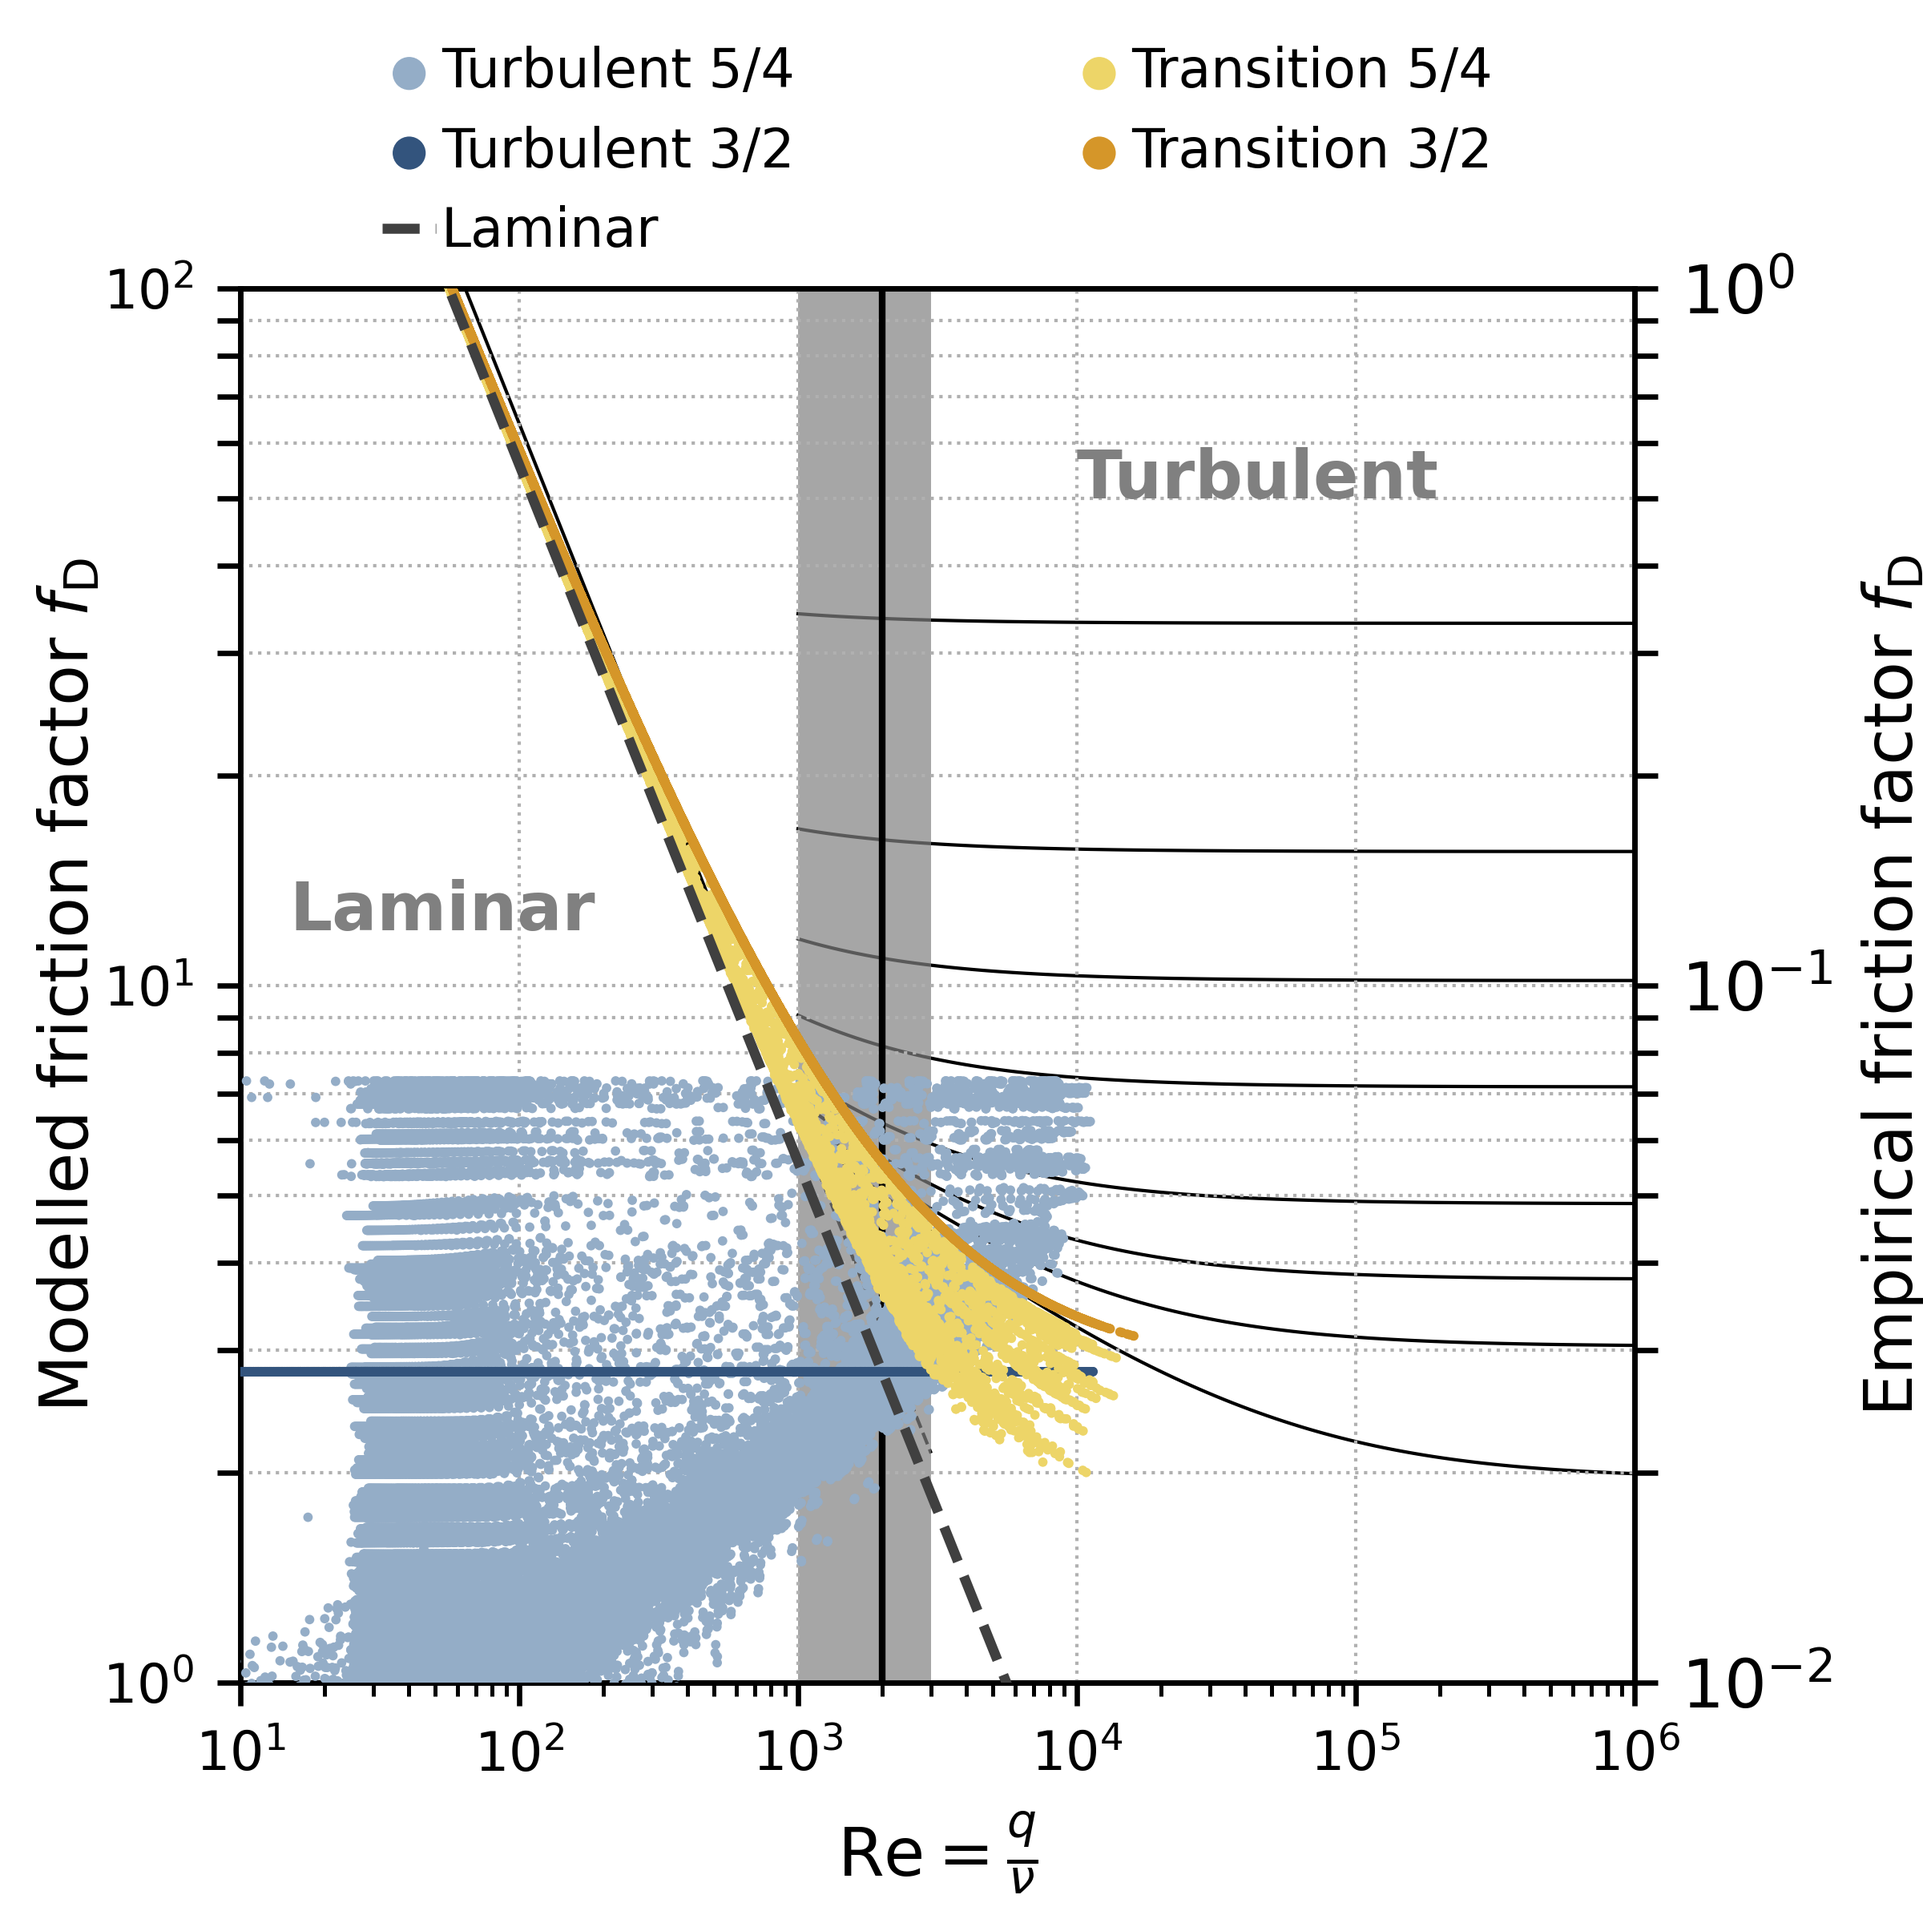
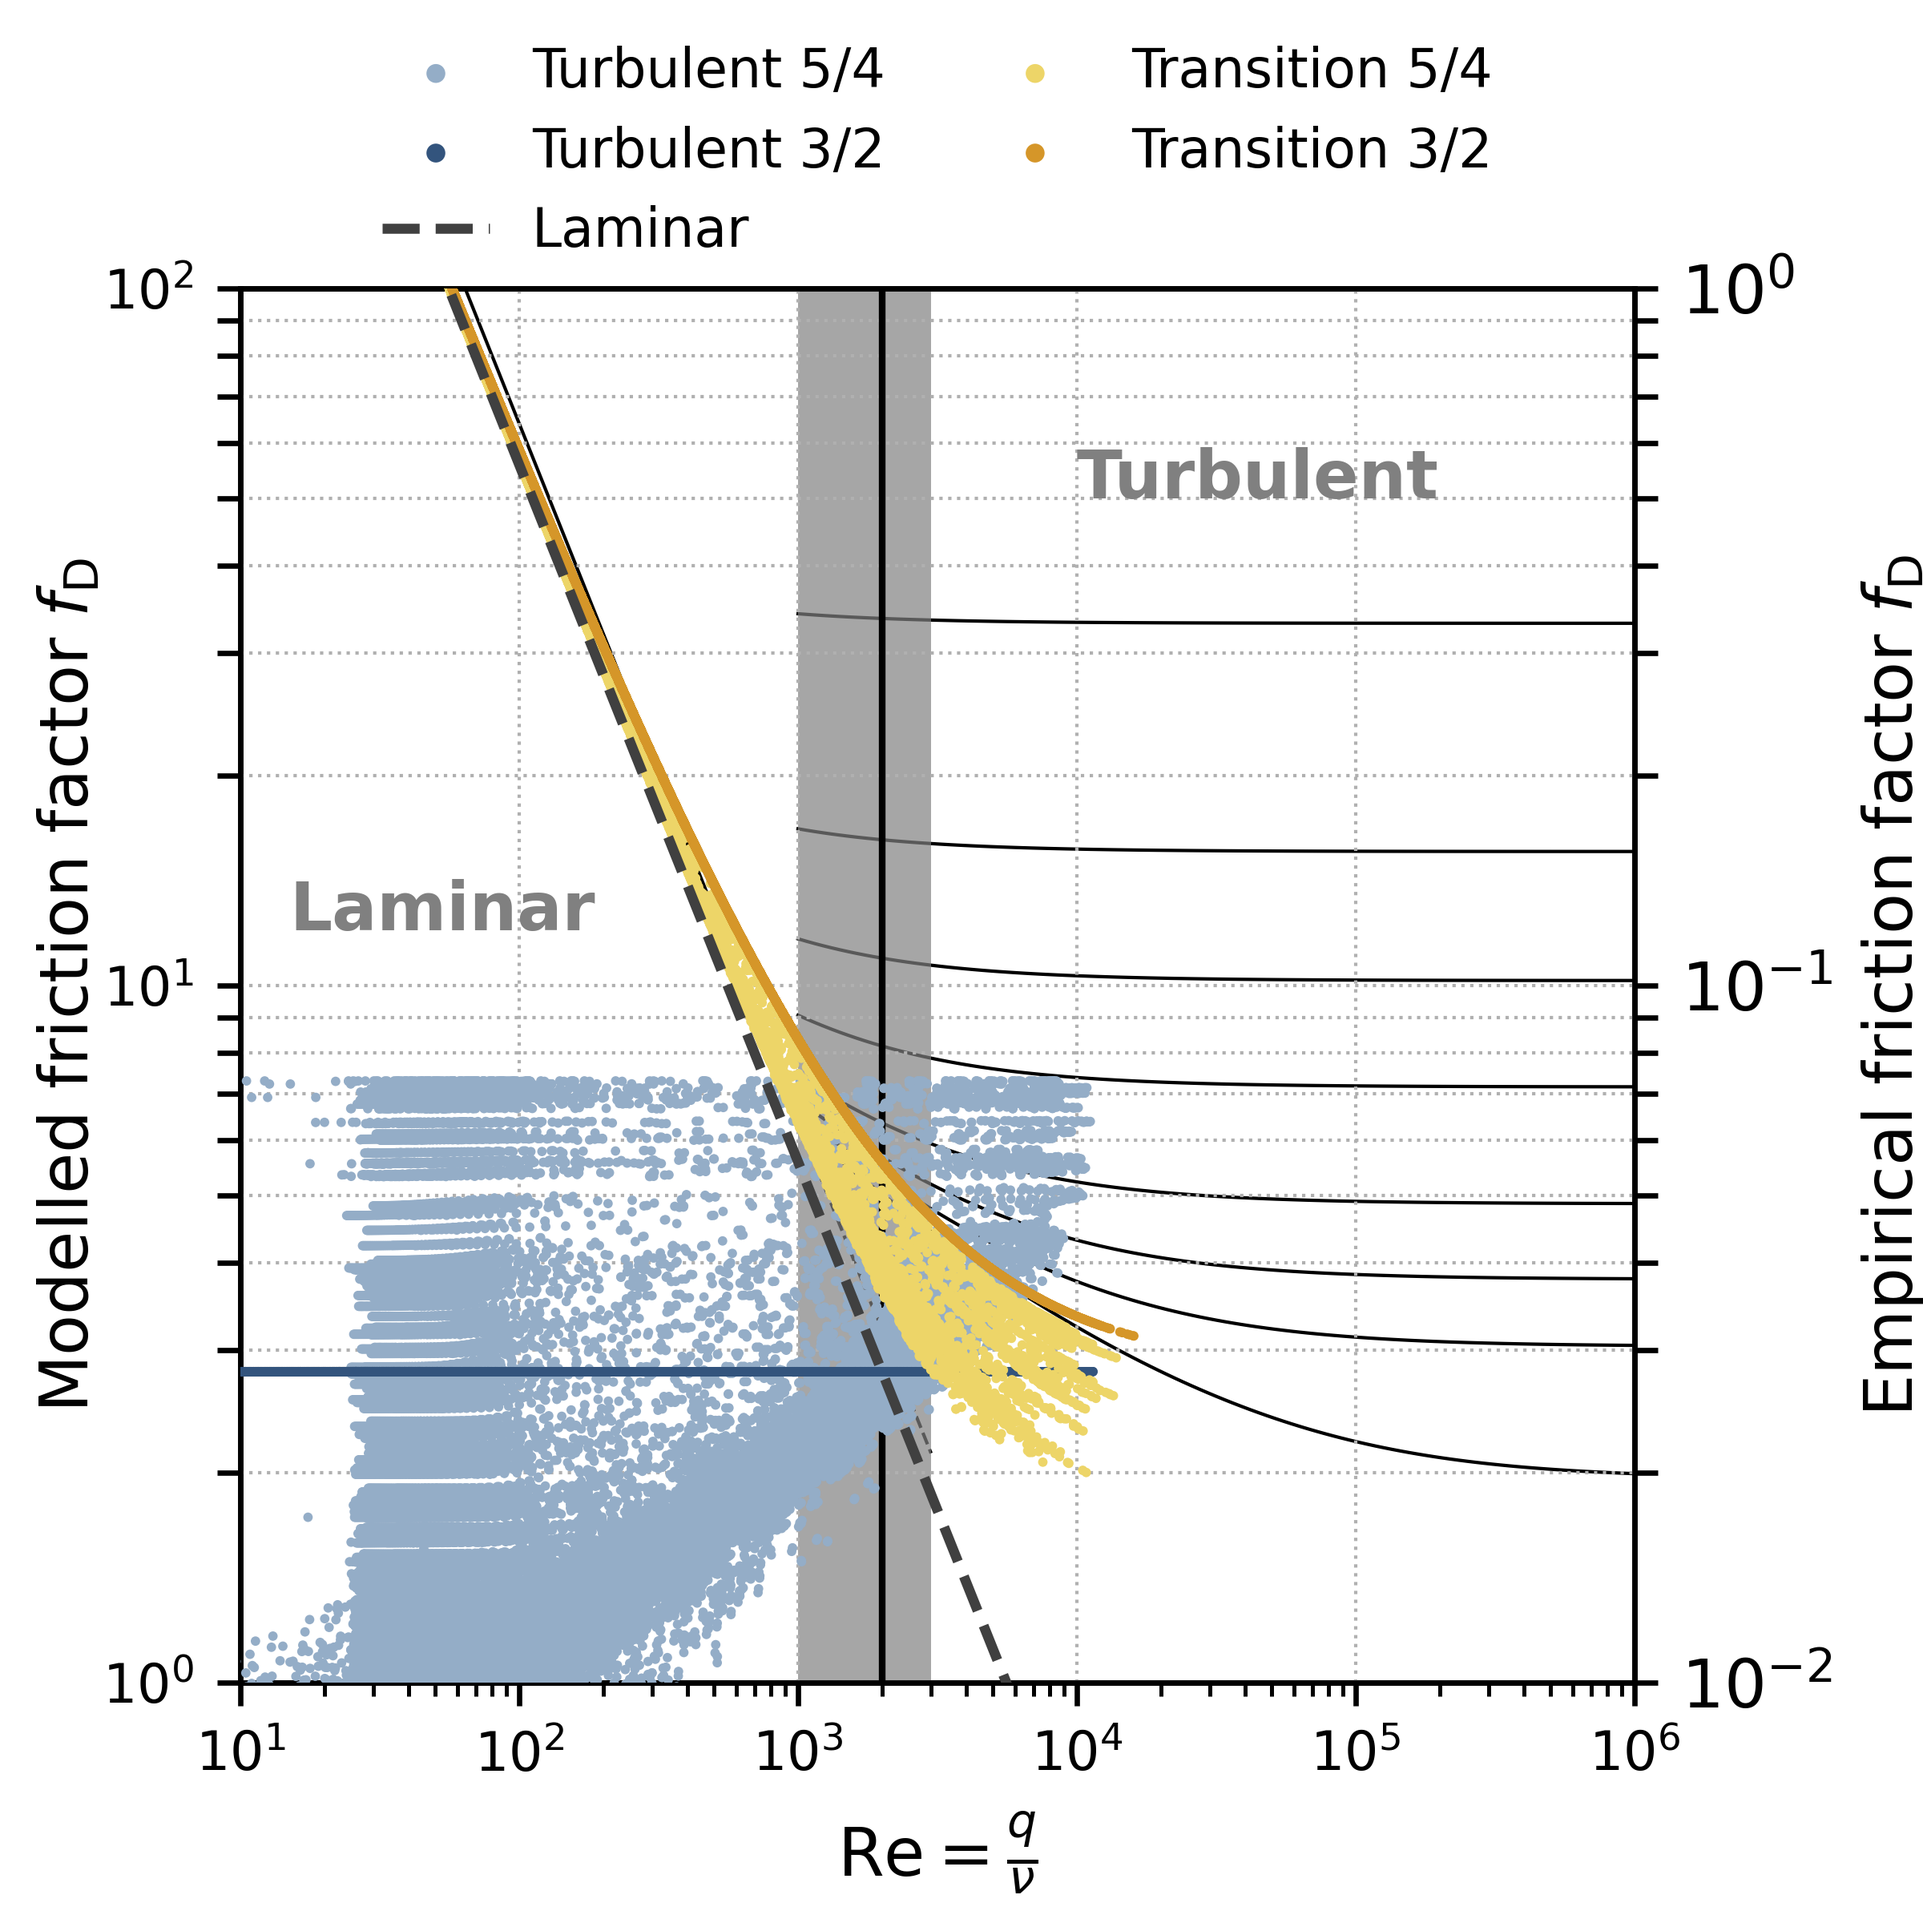
moody fig

Changed region(s): [[0.1875, 0.0312, 0.4688, 0.125], [0.5625, 0.0312, 0.5938, 0.0938]]

diff --git a/analysis/plot_moody_scatter.py b/analysis/plot_moody_scatter.py
@@ -183,7 +183,7 @@ def plot_moody(fnames, figname, colors=defaults.colors, omega=1/2000,
 
     ax_scatter.legend(bbox_to_anchor=[0.1, 1.02, 0.8, 0.2],
         ncol=2, mode='expand', borderaxespad=0.05, frameon=True, borderpad=0,
-        markerscale=3.5, handletextpad=0.1, handlelength=1,
+        markerscale=2,
         facecolor=(1, 1, 1, 0.5), edgecolor='none', fancybox=False, fontsize=8,
         loc='lower left')
 
